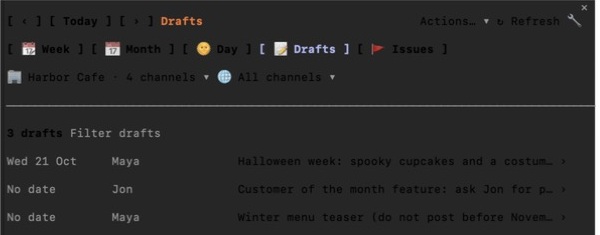
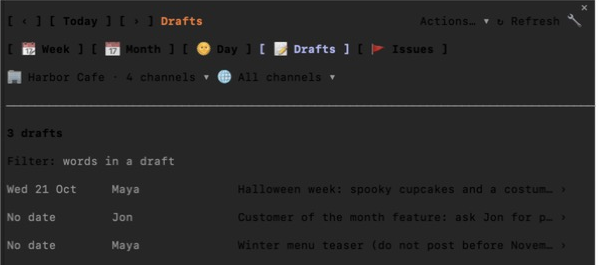
PUBLISHES NOW for new posts scheduled in the past; month cells and drafts filter that read cleanly; tabs wrap whole
- Traced in Social Champ's backend: moving a post to a past time is refused ('Not a valid date'), but a new post
  (or a bulk-schedule entry) with a past time is accepted and sent at once. The chat check now says PUBLISHES NOW
  for the latter and keeps a plain warning for moves; README says exactly that.
- Month cells use the long label only where it fits a terminal cell, so '2 posts' no longer breaks beside '1 post'.
- The drafts filter sits on its own labelled line; the tab row wraps whole tabs in a narrow pane.
- Month and drafts screenshots retaken.

diff --git a/hooks/views.tsx b/hooks/views.tsx
@@ -679,7 +679,7 @@ export function drawPane(input: PaneInput): RenderElement {
           </Box>
         </Box>
       </Box>
-      <Box flexDirection="row" gap={1}>
+      <Box flexDirection="row" gap={1} flexWrap="wrap">
         {/* Issues last: its count arrives after the first draw, and a tab shifted right by it can leave a sliver of
             its old emoji behind in a terminal. */}
         {(['week', 'month', 'day', 'drafts', 'issues'] as const).map(name => (
@@ -1098,10 +1098,11 @@ export function drawPane(input: PaneInput): RenderElement {
         ? <Text color="warning">{drafts.error}</Text>
         : (
           <Box flexDirection="column" gap={1}>
+            <Text bold>{plural(drafts.items.length, 'draft')}{drafts.hasMore ? '+' : ''}</Text>
+            {/* The filter on its own line, labelled: beside the count it read as part of the heading. */}
             <Box flexDirection="row" gap={1} alignItems="center" flexWrap="wrap">
-              <Text bold>{plural(drafts.items.length, 'draft')}{drafts.hasMore ? '+' : ''}</Text>
               {Input !== null && (
-                <Input key="draft-filter" placeholder="Filter drafts" submitLabel="Filter"
+                <Input key="draft-filter" label="Filter" placeholder="words in a draft" submitLabel="Filter"
                   onSubmit={(value: string) => void act.patch({ draftFilter: value.trim() })} />
               )}
               {ui.draftFilter !== '' && <Button key="clear-draft-filter" plain label="✕ Clear" onPress={() => void act.patch({ draftFilter: '' })} />}
@@ -1190,19 +1191,23 @@ export function drawPane(input: PaneInput): RenderElement {
               if (d === null) return <Box key={`e-${i}-${j}`} width={column} />
               const c = monthCounts !== null ? (monthCounts.get(d) ?? ZERO) : counts(grouped.get(d) ?? [])
               const isWide = cell >= 10
+              // A terminal cell holds its width less the border and padding; the long label only where it fits,
+              // so "2 posts" never breaks over two lines beside a "1 post" that does not.
+              const room = e.surface === 'desktop' ? Infinity : cell - (isWide ? 4 : 2)
+              const fit = (long: string, short: string) => (isWide && long.length <= room ? long : short)
               return (
                 <Box key={`d-${d}`} width={column} flexDirection="column" borderStyle="round"
                   {...(isToday(d) ? { borderColor: BRAND } : { borderDimColor: true })}
                   hover={{ borderColor: BRAND }} paddingX={isWide ? 1 : 0}>
                   <Button key={`m-${d}`} plain label={String(Number(d.slice(8)))}
                     hover={{ color: BRAND, bold: true }} onPress={() => void act.go({ view: 'day', anchor: d })} />
-                  <Box flexDirection="column" paddingLeft={1}>
+                  <Box flexDirection="column">
                     {c.total === 0
                       ? <Text dimColor>·</Text>
                       : <Text color={c.scheduled > 0 ? 'suggestion' : undefined} dimColor={c.scheduled === 0}>
-                          {isWide ? plural(c.total, 'post') : String(c.total)}
+                          {fit(plural(c.total, 'post'), String(c.total))}
                         </Text>}
-                    {c.failed > 0 && <Text color="error">✕ {c.failed}{isWide ? ' failed' : ''}</Text>}
+                    {c.failed > 0 && <Text color="error">{fit(`✕ ${c.failed} failed`, `✕ ${c.failed}`)}</Text>}
                     {holidaysOn(d).map(holiday => (
                       <Box key={`mhol-${d}-${holiday.name}`}>
                         <Text color={BRAND} wrap="truncate-end">{isWide ? `🎉 ${holiday.name}` : '🎉'}</Text>

diff --git a/hooks/data.ts b/hooks/data.ts
@@ -381,7 +381,8 @@ export const writeProblem = (tool: string, args: Record<string, unknown>, now: n
     if (draft === true && scheduled === true) return 'A post cannot be a draft and scheduled at once'
     if (draft === true) return null
     if (scheduled !== true) return 'This would publish the post now'
-    return isFuture(args.dateTime, now) ? null : 'The time must be at least a minute from now'
+    // Social Champ accepts a new post scheduled in the past and its job runs at once: it publishes now.
+    return isFuture(args.dateTime, now) ? null : 'A time already past would publish the post now'
   }
   if (tool === 'bulk_schedule') {
     const posts = Array.isArray(args.posts) ? args.posts as Array<Record<string, unknown>> : []
@@ -391,7 +392,7 @@ export const writeProblem = (tool: string, args: Record<string, unknown>, now: n
       if (typeof entry !== 'object' || entry === null || Array.isArray(entry)) return 'A post in the batch is not valid'
       if ('saveAsDraft' in entry) return 'Batch scheduling cannot save drafts'
       if (entry.isScheduled !== true) return 'A post in the batch would publish now'
-      if (!isFuture(entry.dateTime, now)) return 'A time in the batch has passed'
+      if (!isFuture(entry.dateTime, now)) return 'A time in the batch has passed, so that post would publish now'
     }
     return null
   }
@@ -407,6 +408,7 @@ export const writeProblem = (tool: string, args: Record<string, unknown>, now: n
       ? null : 'A time in the batch has passed, or an entry is not valid'
   }
   if (tool === 'update_post' && args.dateTime !== undefined) {
+    // Social Champ refuses to move a post to a past time ("Not a valid date"): a warning, not a publish.
     return isFuture(args.dateTime, now) ? null : 'The time must be at least a minute from now'
   }
   if (tool === 'queue_reorder') {

diff --git a/tests/safety.test.ts b/tests/safety.test.ts
@@ -20,7 +20,7 @@ test('the publish-now check refuses every shape that would go out at once or con
   expect(create({ isScheduled: false, dateTime: LATER })).toMatch(/publish the post now/)
   expect(create({ isScheduled: 'true', dateTime: LATER })).toMatch(/true or false/)
   expect(create({ isScheduled: true, saveAsDraft: true, dateTime: LATER })).toMatch(/draft and scheduled/)
-  expect(create({ isScheduled: true, dateTime: PAST })).toMatch(/minute from now/)
+  expect(create({ isScheduled: true, dateTime: PAST })).toMatch(/would publish the post now/)
   expect(writeProblem('create_image_post', { imageUrls: ['x'] }, NOW)).toMatch(/publish/)
 
   const bulk = (posts: unknown[]) => writeProblem('bulk_schedule', { posts }, NOW)
@@ -41,7 +41,10 @@ test('the publish-now check refuses every shape that would go out at once or con
   expect(writeProblem('update_post', { items: [{ postId: 'p', dateTime: LATER }] }, NOW)).toBeNull()
   expect(writeProblem('update_post', { items: [{ postId: 'p', dateTime: PAST }] }, NOW)).toMatch(/passed/)
   expect(publishesNow('create_text_post', { text: 'x' }, NOW)).toBe(true)
-  expect(publishesNow('create_text_post', { isScheduled: true, dateTime: PAST }, NOW)).toBe(false)
+  // A new post scheduled in the past is sent at once; moving a post into the past is refused by Social Champ.
+  expect(publishesNow('create_text_post', { isScheduled: true, dateTime: PAST }, NOW)).toBe(true)
+  expect(publishesNow('bulk_schedule', { posts: [{ text: 'x', channelIds: ['c'], isScheduled: true, dateTime: PAST }] }, NOW)).toBe(true)
+  expect(publishesNow('update_post', { postId: 'p', dateTime: PAST }, NOW)).toBe(false)
 })
 
 test('every kind of change says whether and where it can be undone', () => {

diff --git a/README.md b/README.md
@@ -283,7 +283,7 @@ undo, the pane re-reads the post and stops if someone changed it in Social Champ
 | Claude tries to… | What happens |
 |---|---|
 | Read posts, channels, drafts, labels | Allowed. |
-| Change something (schedule, edit, label, pause…) | You are asked in Claude Code's question dialog, with every argument shown (long values shortened; post words in full, or the call is refused), **PUBLISHES NOW** when it would go out at once, and a warning when the time asked for has already passed. Dismissing the question refuses it. |
+| Change something (schedule, edit, label, pause…) | You are asked in Claude Code's question dialog, with every argument shown (long values shortened; post words in full, or the call is refused), **PUBLISHES NOW** when it would go out at once (a new post with no time, or with a time already past), and a warning when it asks to move a post to a time already past (Social Champ refuses those). Dismissing the question refuses it. |
 | Delete posts | Refused. Delete in the pane (it asks you) or in Social Champ. |
 | Send more than 10 posts in one batch (bulk schedule, bulk label, queue reorder, bulk delete) | Refused. Claude stages them in the pane instead, where you tick and confirm. |
 | Read post metrics or best times | Refused. Facebook does not allow passing metrics to a third party. |
